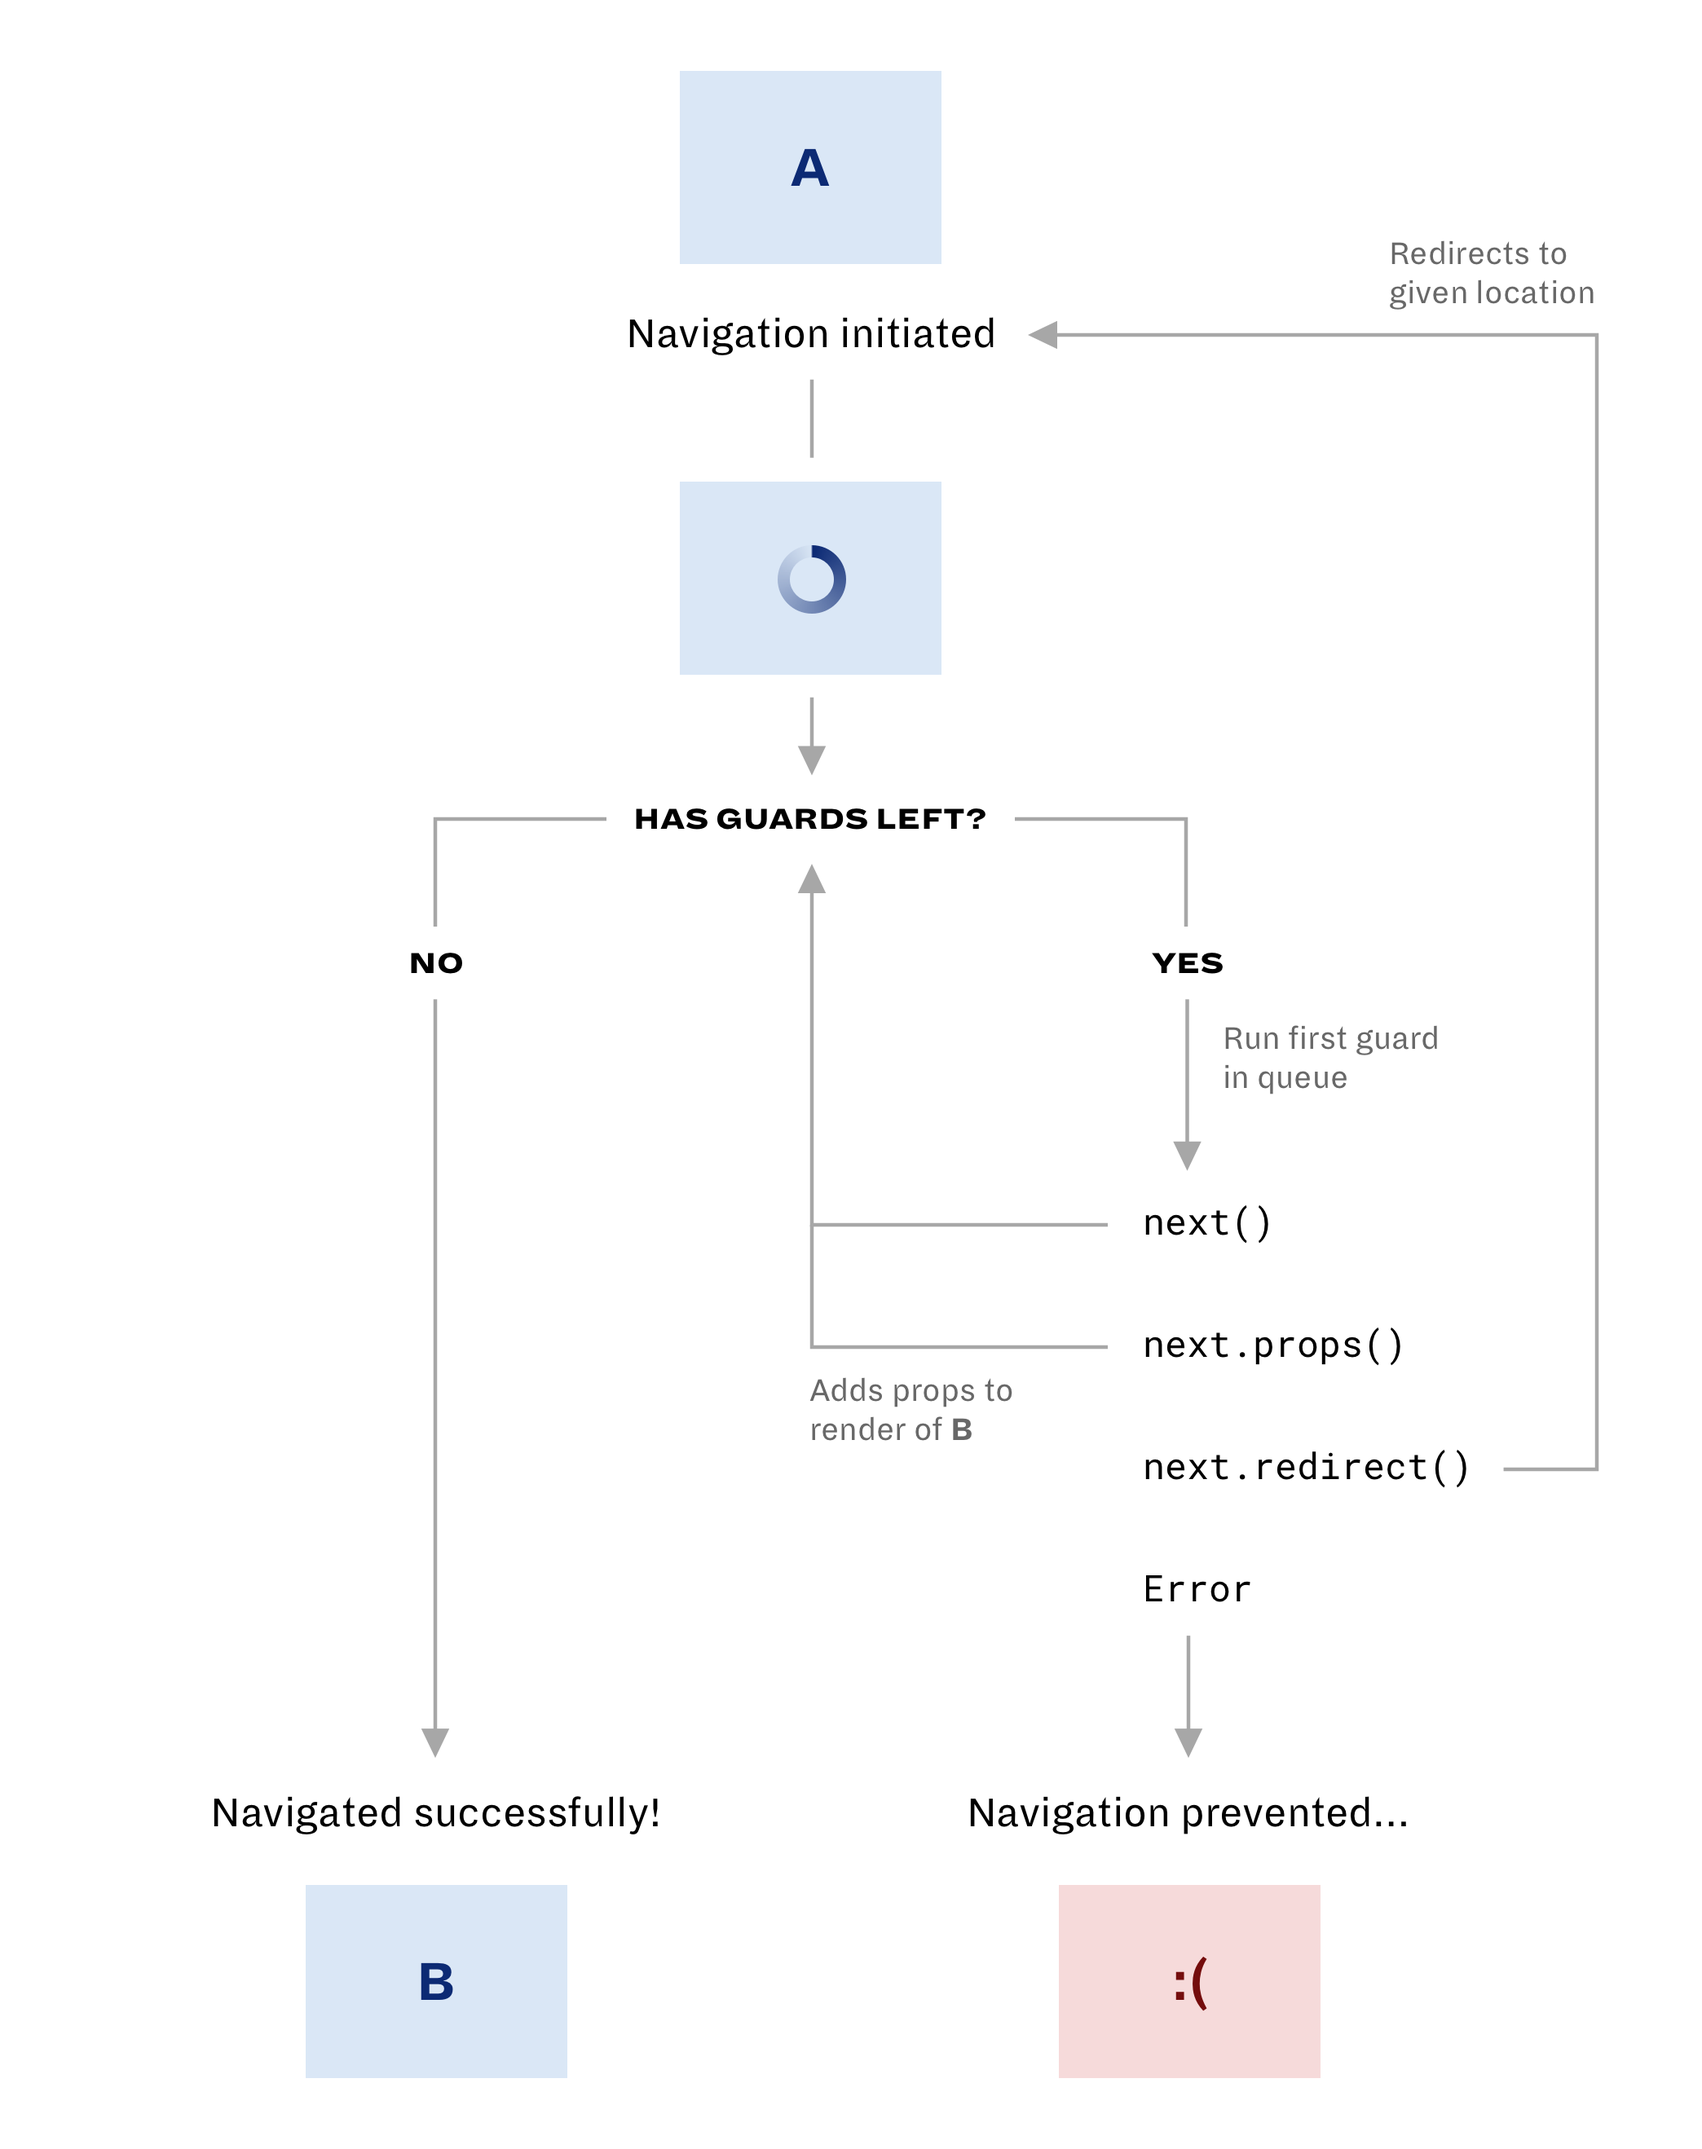
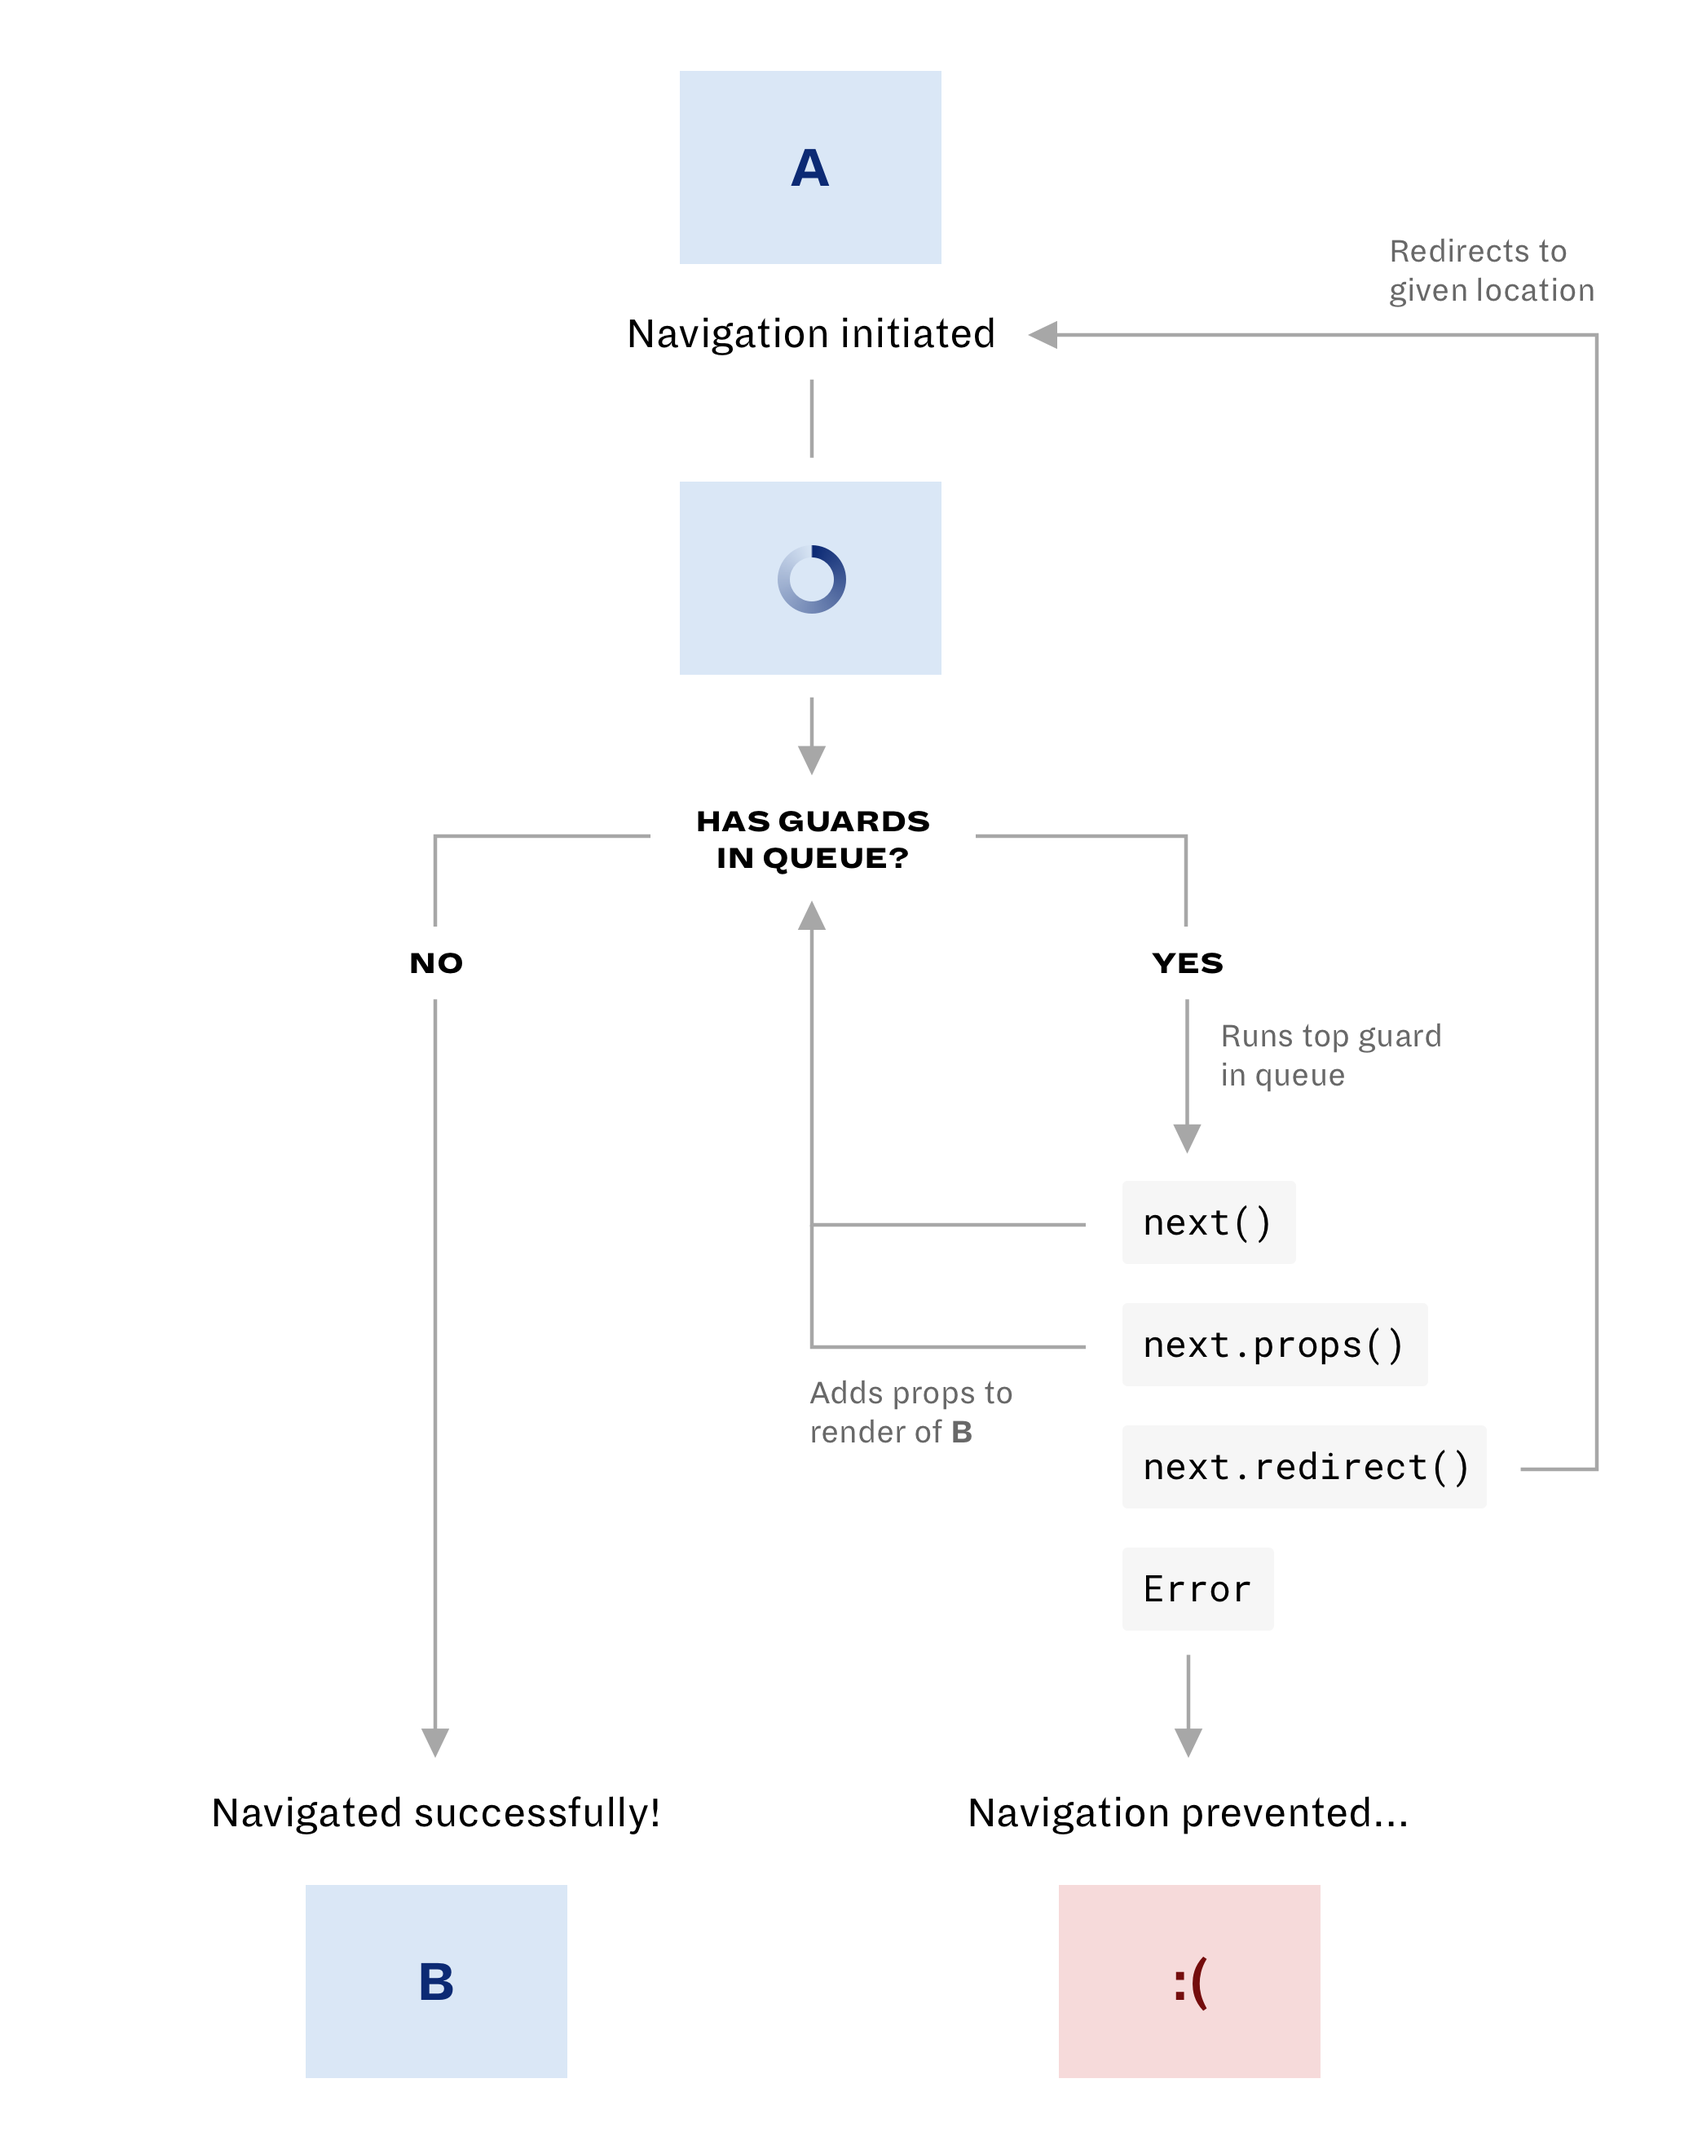
updating lifecycle diagram, updating copy for lifecycle

diff --git a/README.md b/README.md
@@ -2,7 +2,7 @@
 
 > Guard middleware for React Router navigation
 
-React Router Guards provides an API for performing complicated logic between the call for navigation and the final render of a route.
+React Router Guards provides a middleware API for [React Router](https://reacttraining.com/react-router/), allowing you to perform complex logic between the call for navigation and the final render of a route.
 
 ## Table of Contents
 
@@ -89,6 +89,10 @@ Check out our [demos](#demos) for more examples!
 
 ## Concepts
 
+### [Navigation lifecycle](/docs/navigation-lifecycle.md)
+
+> With the addition of guard middleware, the navigation lifecycle has changed.
+
 ### [Guard functions](/docs/guard-functions.md)
 
 > Guard functions are the middleware between navigation and rendering.
@@ -104,10 +108,6 @@ Check out our [demos](#demos) for more examples!
 ### [Guarded Route](/docs/guarded-route.md)
 
 > The `GuardedRoute` component acts as a replacement for the default [`Route`](https://reacttraining.com/react-router/core/api/Route) component provided by React Router, allowing for routes to use guard middleware.
-
-### [Navigation Lifecycle](/docs/navigation-lifecycle.md)
-
-> With the addition of guard middleware, the navigation lifecycle has changed.
 
 ## Demos
 

diff --git a/docs/navigation-lifecycle.md b/docs/navigation-lifecycle.md
@@ -1,4 +1,4 @@
-# Navigation Lifecycle
+# Navigation lifecycle
 
 With the addition of guard middleware, the navigation lifecycle has changed. It will now be as follows:
 
@@ -10,13 +10,13 @@ With the addition of guard middleware, the navigation lifecycle has changed. It 
 
 2. Navigation initiated. _The loading page is shown._
 
-3. Check if any guards are left in the chain.
+3. Check if there are guards are left in the queue.
 
-   - If no guards are left, skip to step 5.
+   - If there are guards, continue to step 4.
 
-   - If there are guards left, continue to step 4.
+   - If no guards remain, skip to step 5.
 
-4. Run the first guard in the queue:
+4. Run the top guard in the queue:
 
    - `next()`: Return to step 3.
 
